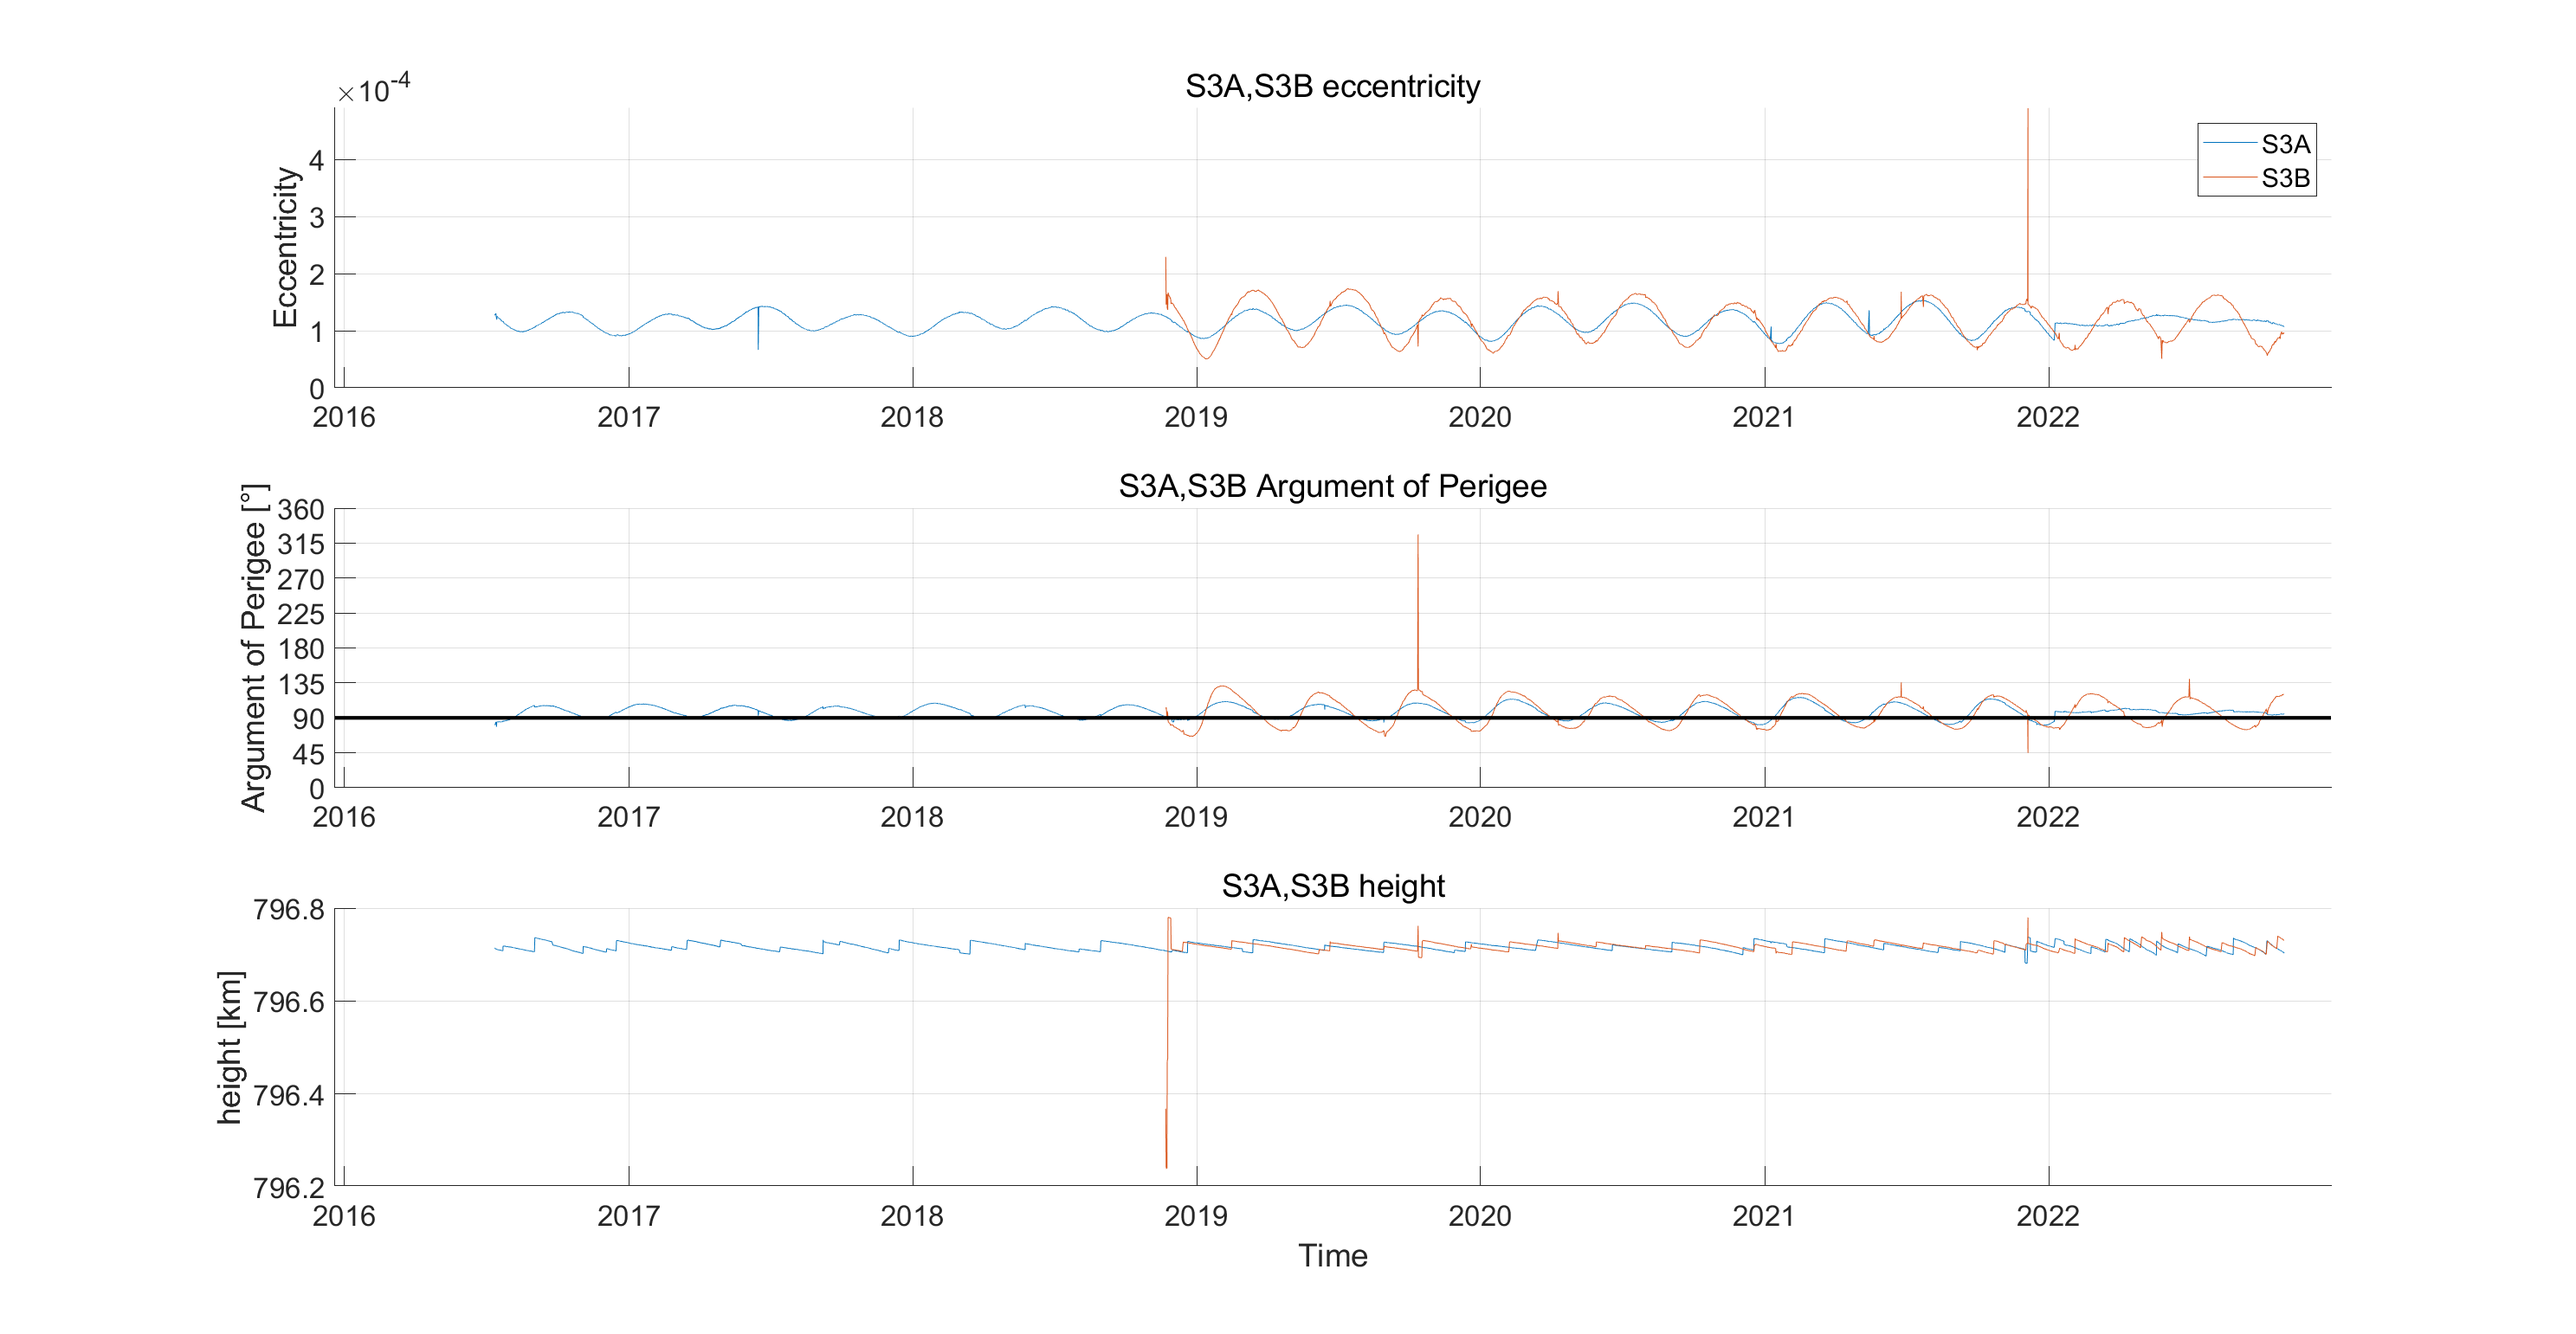
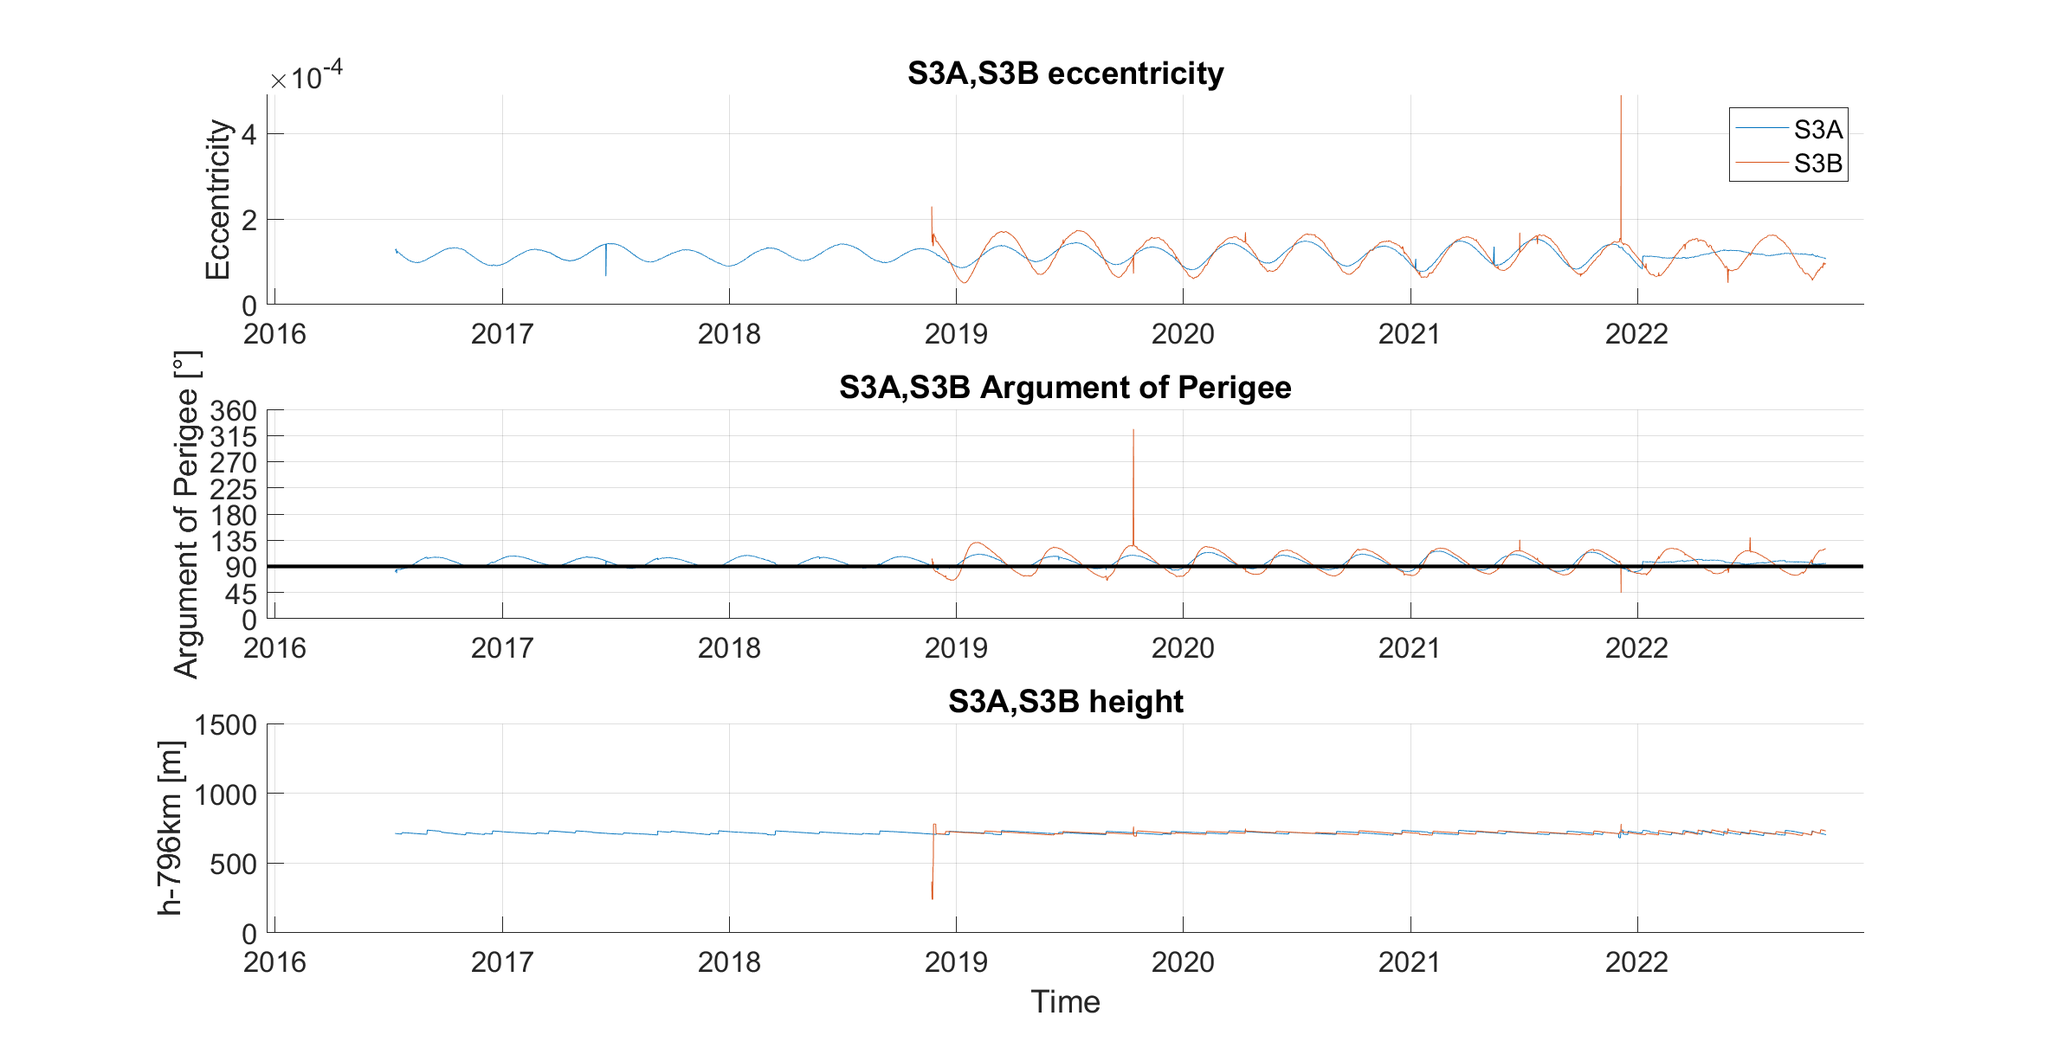
update the sentinel images

diff --git a/TLE analyse/plotelement.m b/TLE analyse/plotelement.m
@@ -33,11 +33,20 @@ subplot(3,1,3)
 hold on
 for i=1:length(time)-1
     id = data.time>=time(i) & data.time<=time(i+1);
-    plot(data.time(id),data.a(id)/1000-6371)
+    if name == 'S3A' | name == 'S3B'
+        plot(data.time(id),(data.a(id)/1000-6371-796)*1000)
+    else
+        plot(data.time(id),data.a(id)/1000-6371)
+    end
 end
 title([name,' height'])
 xlabel('Time')
-ylabel('height [km]')
+if name == 'S3A' | name == 'S3B'
+    ylabel('h minus 796km [m]')
+    ylim([0,1500])
+else
+    ylabel('height [km]')
+end
 set(gca,'FontSize',16)
 datetick('x')
 grid on

diff --git a/TLE analyse/compare_timeseries_sentinel.m b/TLE analyse/compare_timeseries_sentinel.m
@@ -45,15 +45,16 @@ subplot(3,1,3)
 hold on
 for j=1:length(data_list)
     id = data_list{j}.time>commossion_time(j);
-    plot(data_list{j}.time(id),data_list{j}.a(id)/1000-6371)
+    plot(data_list{j}.time(id),((data_list{j}.a(id)/1000-6371-796)*1000))
 end
 title([name,' height'])
 xlabel('Time')
-ylabel('height [km]')
+ylabel('h-796km [m]')
 set(gca,'FontSize',16)
 datetick('x')
 grid on
 xlim([xmin,xmax])
+ylim([0,1500])
 
 % AoP
 subplot(3,1,2)
